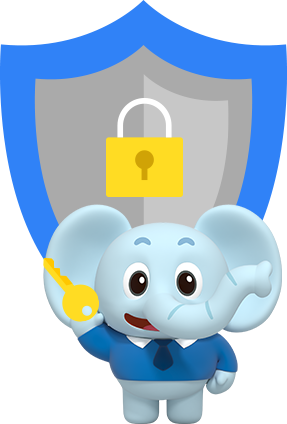
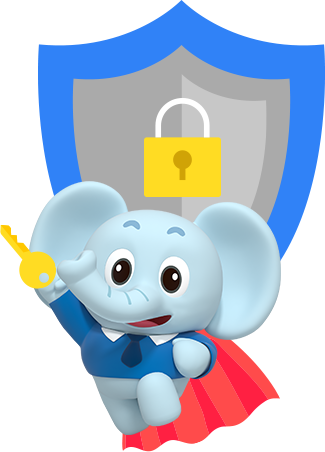
캐릭터 이미지 변경

diff --git a/content/css/contents.css b/content/css/contents.css
@@ -57,7 +57,7 @@
 
 /*신용보호 서비스*/
 .first_blue_box{position:relative;margin-top:-30px;background:#eaf2fe;overflow:hidden;}
-.first_blue_box .bg{position:absolute;right:21px;bottom:21px;width:96px;height:142px;background:url(../images/contents/first_blue_box_bg_01.png) no-repeat right bottom;background-size:contain;}
+.first_blue_box .bg{position:absolute;right:21px;bottom:21px;width:108px;height:151px;background:url(../images/contents/first_blue_box_bg_01.png) no-repeat right bottom;background-size:contain;}
 .first_blue_box .inner{position:relative;padding:25px 20px;}
 .first_blue_box .tit{font-size:1.6rem;color:#111;}
 .first_blue_box .tit strong{font-size:1.8rem;}
